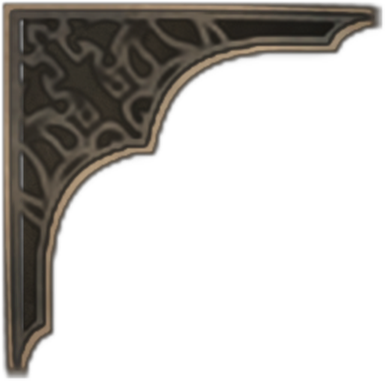
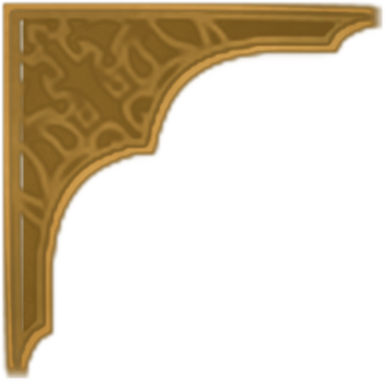
feat(combat): recolor shelf frame gold/bronze, add corner ornaments
The downloaded frame pack's gray-olive stone read as flat and not very
fantasy-game-like. Recolors panel-1/panel-2/corner in place (a color
mix toward warm gold + saturation boost, applied to the same painted
art rather than a CSS filter) so the frame carries real color instead
of relying on a runtime hack — texture and shading are preserved, only
the hue shifts.

Also reintroduces the gold corner-filigree overlay on the outer shelf
(same asset, now recolored to match) and adds a subtle inner hairline
to PaintedPanel so the border reads as a layered carved edge instead of
one flat stroke, plus a grounding drop shadow under the shelf.

diff --git a/card-engine/src/pages/battle/PaintedPanel.tsx b/card-engine/src/pages/battle/PaintedPanel.tsx
@@ -4,9 +4,12 @@ import type { CSSProperties, ReactNode } from 'react';
  * Real painted 9-slice frame art (CC0, Foozle "RPG UI Set 1 - Diablo Style",
  * sourced from itch.io / OpenGameArt — see
  * public/assets/combat/shelf/SOURCE-LICENSE.txt) replacing the CSS-drawn
- * CombatFrame primitive for the command shelf band. Carved-stone/bronze
+ * CombatFrame primitive for the command shelf band. Carved gold/bronze
  * panel with real filigree corners — the thing CSS gradients couldn't
- * fake (per the ui-ux-director consult that scoped this pass).
+ * fake. The source pack shipped a gray-stone tone that read as flat and
+ * un-fantasy; `panel-1.png`/`panel-2.png`/`corner.png` are the same art,
+ * recolored in place (hue mix toward warm gold, +saturation) so the frame
+ * itself carries color instead of relying on a filter or a different asset.
  *
  * Uses CSS `border-image`: the source PNG's corner+edge region paints the
  * border ring only (no `fill`), so the element's own `background` still
@@ -66,6 +69,27 @@ export function PaintedPanel({
         ...style,
       }}
     >
+      {/* Inner gold hairline — sits just inside the painted border so the
+          frame reads as a layered, carved metal edge rather than one flat
+          stroke. Kept separate from `boxShadow` (which callers already use
+          for glow/elevation) so it can't be silently clobbered by a
+          caller's own shadow value.
+          NB: relies on the caller already establishing a containing block
+          (the shelf has `absolute` in its className; ability slots always
+          set a non-'none' `transform`) — deliberately NOT adding a default
+          `position` here, since an inline `position: relative` would beat
+          the shelf's Tailwind `.absolute` class outright (inline style
+          always wins over a stylesheet class) and reintroduce the exact
+          shelf-renders-at-top bug fixed earlier. */}
+      <div
+        aria-hidden
+        style={{
+          position: 'absolute',
+          inset: 2,
+          boxShadow: 'inset 0 0 0 1px rgba(255,224,168,0.22)',
+          pointerEvents: 'none',
+        }}
+      />
       {children}
     </div>
   );

diff --git a/card-engine/src/pages/battle/CombatScene.tsx b/card-engine/src/pages/battle/CombatScene.tsx
@@ -228,10 +228,23 @@ export function CombatScene({
           most-important element, not the empty background box. */}
       <PaintedPanel
         className="absolute inset-x-2 bottom-2 flex items-center gap-4 px-5"
-        style={{ height: '9.5rem', zIndex: 15 }}
+        style={{ height: '9.5rem', zIndex: 15, boxShadow: '0px -8px 24px rgba(0,0,0,0.55)' }}
         borderWidth={10}
         background="#060708"
       >
+        {/* Corner ornaments — real painted gold filigree brackets, not a
+            CSS approximation. Same recolored asset as the panel border
+            itself so it reads as one coherent gold frame, not a mismatched
+            add-on. */}
+        <img src="/assets/combat/shelf/corner.png" alt="" aria-hidden draggable={false}
+          style={{ position: 'absolute', left: -3, top: -3, width: 30, height: 30, pointerEvents: 'none' }} />
+        <img src="/assets/combat/shelf/corner.png" alt="" aria-hidden draggable={false}
+          style={{ position: 'absolute', right: -3, top: -3, width: 30, height: 30, transform: 'scaleX(-1)', pointerEvents: 'none' }} />
+        <img src="/assets/combat/shelf/corner.png" alt="" aria-hidden draggable={false}
+          style={{ position: 'absolute', left: -3, bottom: -3, width: 30, height: 30, transform: 'scaleY(-1)', pointerEvents: 'none' }} />
+        <img src="/assets/combat/shelf/corner.png" alt="" aria-hidden draggable={false}
+          style={{ position: 'absolute', right: -3, bottom: -3, width: 30, height: 30, transform: 'scale(-1)', pointerEvents: 'none' }} />
+
         {/* Zone 1 — energy counter, height-matched to the ability slot row */}
         <div className="flex items-center" style={{ height: 72 }}>
           <EnergyGauge
